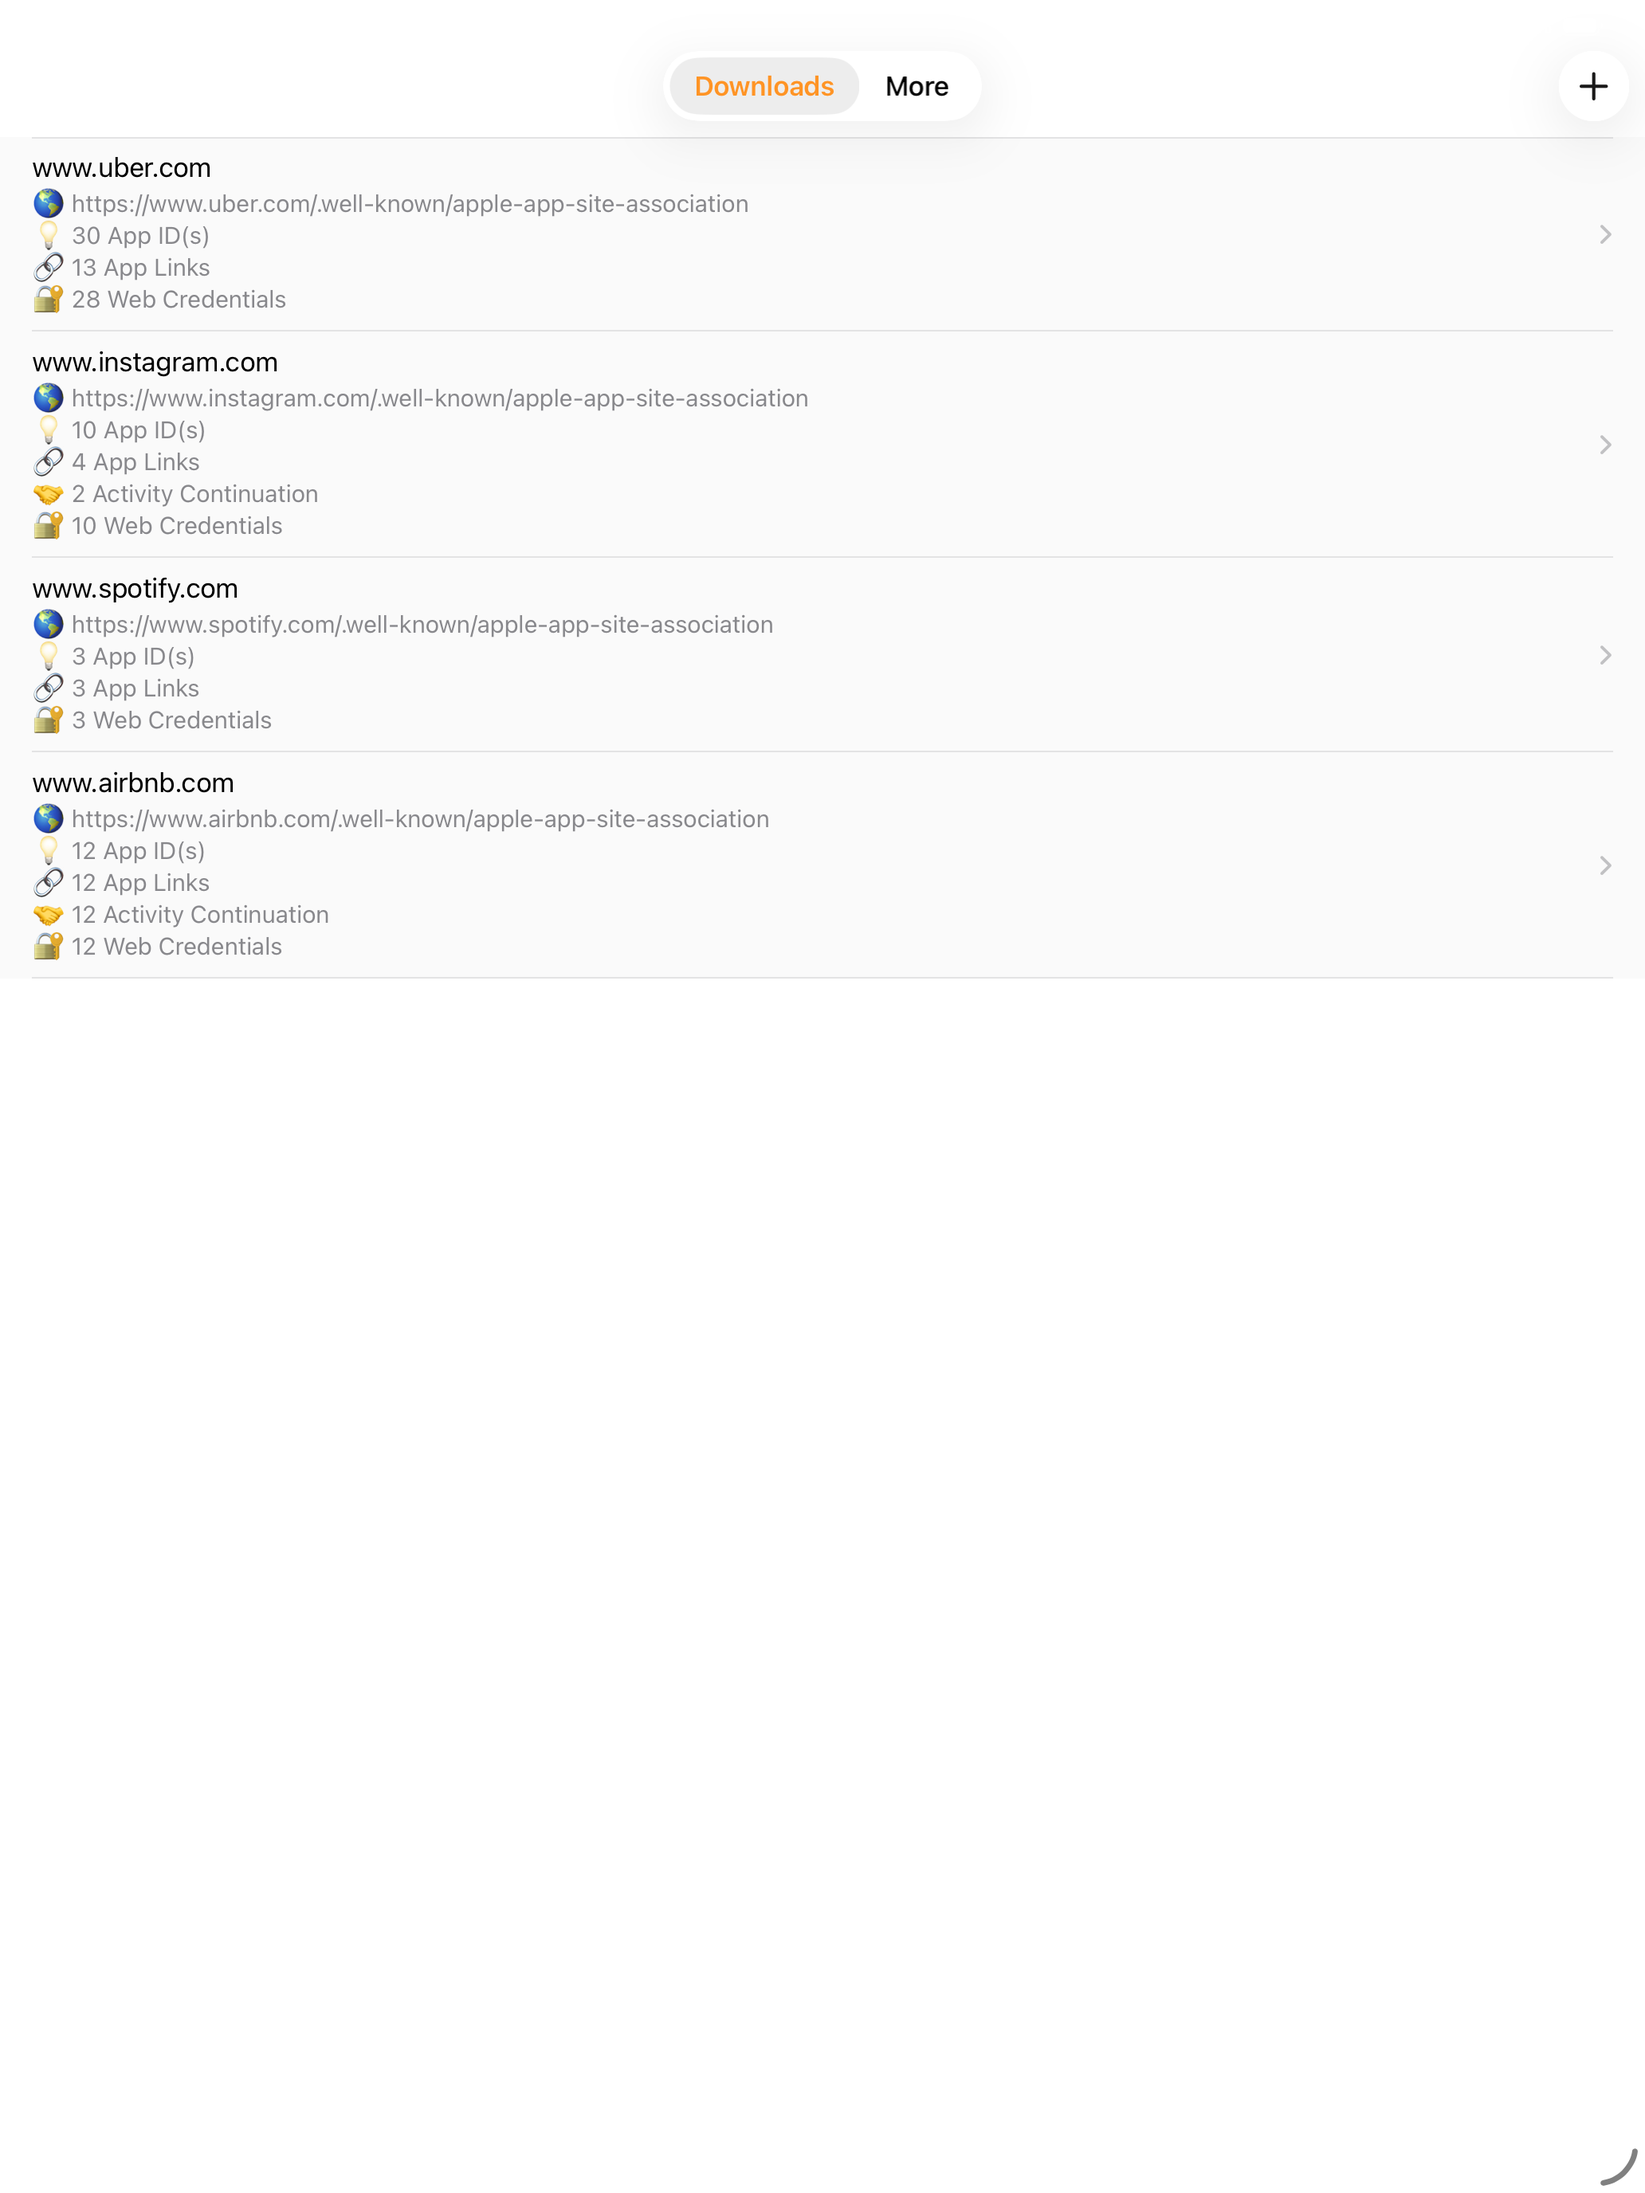
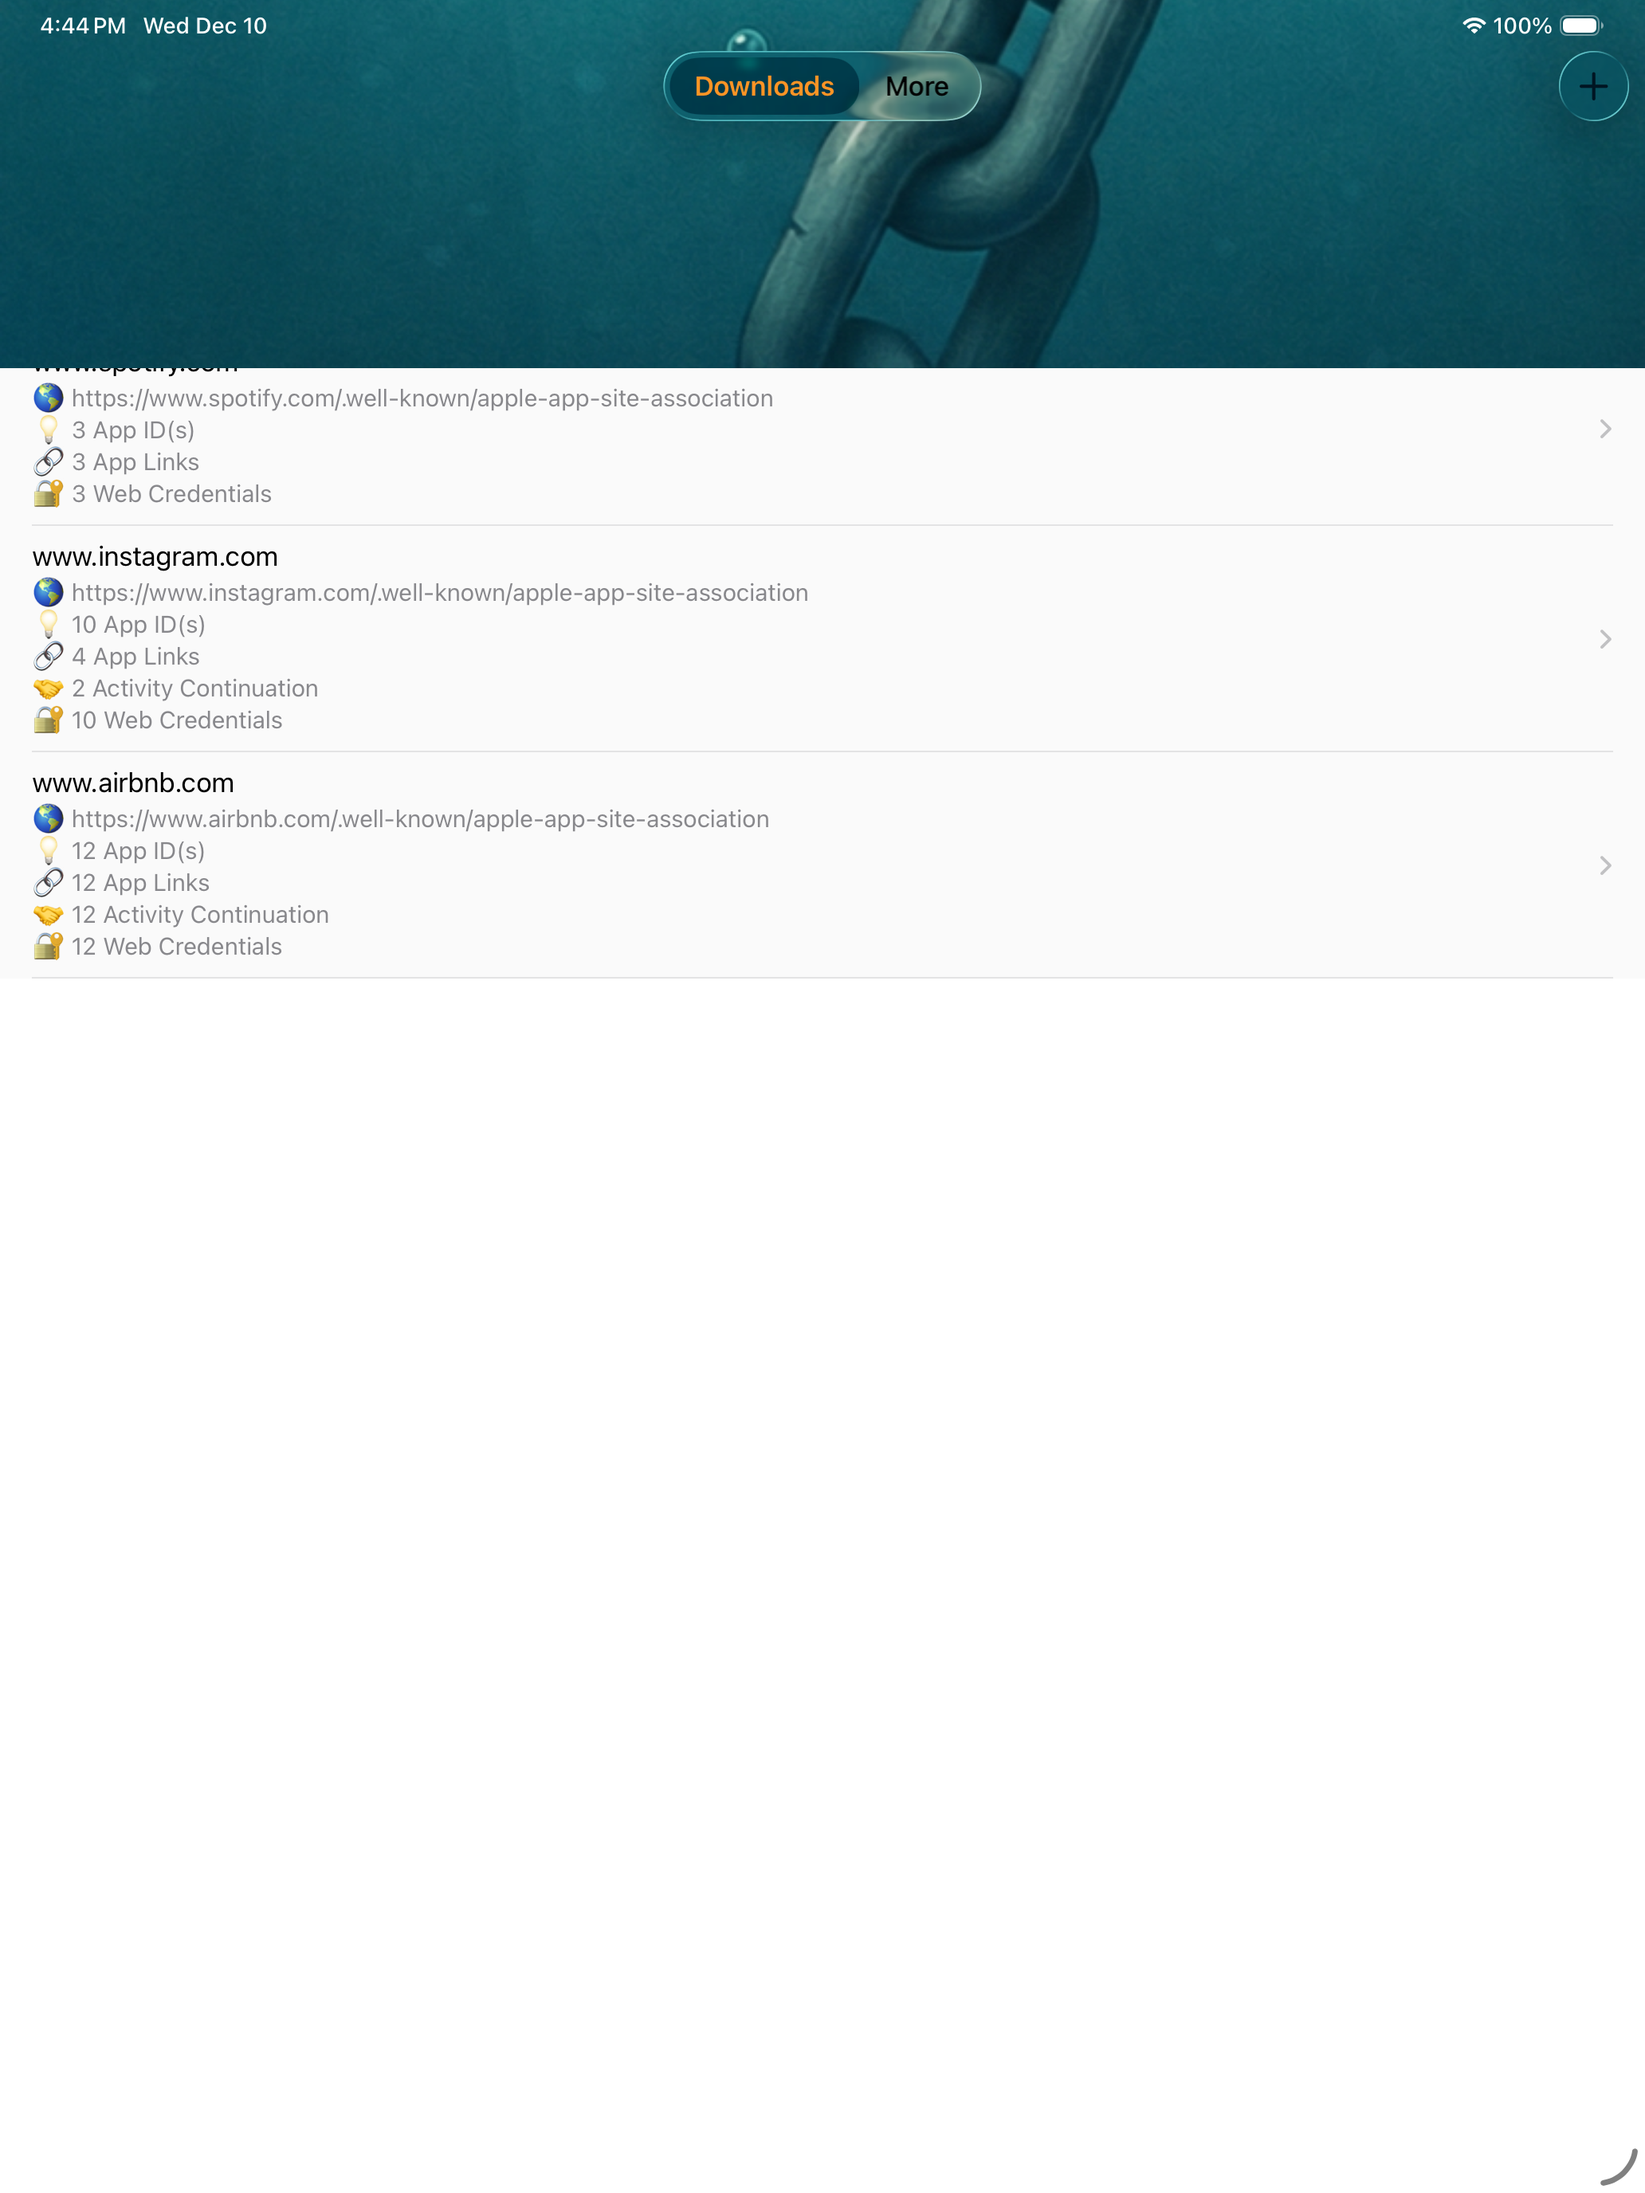
Update header to contain chain.

Changed region(s): [[0.0, 0.0, 1.0, 0.3438]]

diff --git a/FathomUIKit/ListViewController/ListViewController.swift b/FathomUIKit/ListViewController/ListViewController.swift
@@ -34,9 +34,10 @@ public class ListViewController: UITableViewController {
         if #available(iOS 13.0, *) {
             let appearance = UINavigationBarAppearance()
             appearance.configureWithOpaqueBackground()
+
             if let headerImage = UIImage(named: "HeaderBackground") {
                 appearance.backgroundImage = headerImage
-                appearance.backgroundImageContentMode = .scaleAspectFill
+                appearance.backgroundImageContentMode = .scaleToFill
             }
             appearance.titleTextAttributes = [.foregroundColor: UIColor.white]
             appearance.largeTitleTextAttributes = [.foregroundColor: UIColor.white]
@@ -47,6 +48,7 @@ public class ListViewController: UITableViewController {
             navigationController?.navigationBar.compactAppearance = appearance
             navigationController?.navigationBar.prefersLargeTitles = true
             navigationController?.navigationBar.tintColor = .white
+            navigationController?.navigationBar.isTranslucent = false
         } else {
             if let headerImage = UIImage(named: "HeaderBackground") {
                 navigationController?.navigationBar.setBackgroundImage(headerImage, for: .default)
@@ -55,9 +57,11 @@ public class ListViewController: UITableViewController {
             navigationController?.navigationBar.titleTextAttributes = [.foregroundColor: UIColor.white]
             navigationController?.navigationBar.largeTitleTextAttributes = [.foregroundColor: UIColor.white]
             navigationController?.navigationBar.prefersLargeTitles = true
+            navigationController?.navigationBar.isTranslucent = false
         }
 
         navigationItem.title = "Fathom"
+        navigationItem.largeTitleDisplayMode = .always
         navigationItem.rightBarButtonItem = UIBarButtonItem(barButtonSystemItem: .add, target: self, action: #selector(presentAddingAASAAlertController))
 
         NotificationCenter.default.addObserver(self, selector: #selector(appWillResignActive), name: UIApplication.willResignActiveNotification, object: nil)

diff --git a/README.md b/README.md
@@ -3,7 +3,6 @@
 ![Fathom Header](Resources/HeaderSlice.png)
 
 [![CI](https://github.com/shepting/fathom/actions/workflows/ci.yml/badge.svg)](https://github.com/shepting/fathom/actions/workflows/ci.yml)
-![GitHub release](https://img.shields.io/github/release/shepting/fathom.svg)
 ![GitHub top language](https://img.shields.io/github/languages/top/shepting/fathom.svg)
 ![](https://img.shields.io/badge/Platform-iOS%2015.6%2B-lightgrey.svg)
 [![License](https://img.shields.io/github/license/shepting/fathom.svg)](https://github.com/shepting/fathom/blob/master/LICENSE)
@@ -23,12 +22,12 @@ Add websites, download related apps, test Universal Links, and customize test li
 
 | | Features |
 | --- | --- |
-| 😇 | Open source iOS project written in Swift 5 |
+| 😇 | Open source iOS project written in Swift |
 | 📲 | Fetch and parse apple-app-site-association(AASA) files |
 | 💡 | App Store links and metadata |
 | 🚀 | List all Universal Link paths. One-tap to test! |
 | 🛠 | Customize test links |
-| 🤝 | Link to other validation tools like Branch.io's [AASA Validator](https://branch.io/resources/aasa-validator/) or Apple's [App Search API Validation Tool](https://search.developer.apple.com/appsearch-validation-tool/) | 
+| 🤝 | Link to other validation tools like Branch.io's [AASA Validator](https://branch.io/resources/aasa-validator/) or Apple's [App Search API Validation Tool](https://search.developer.apple.com/appsearch-validation-tool/) |
 | 🆓 | Free without ads |
 | 🚫 | No third-party tracking or analytics |
 
@@ -73,9 +72,7 @@ Key differences in the modern format:
 - `exclude` key for explicit exclusion rules
 
 ## Naming
-```
-"fathom" == "link".reversed()
-```
+> Fathom takes its name from the old nautical practice of dropping a chain to fathom the depth—an apt metaphor for tracing the often-hidden paths of “deep” links (iOS Universal Links). Just as that chain helps sailors understand what lies beneath the surface, Fathom helps you dive into Apple App Site Association files and uncover exactly how your links resolve, fail, or redirect.
 
 ## Install
 
